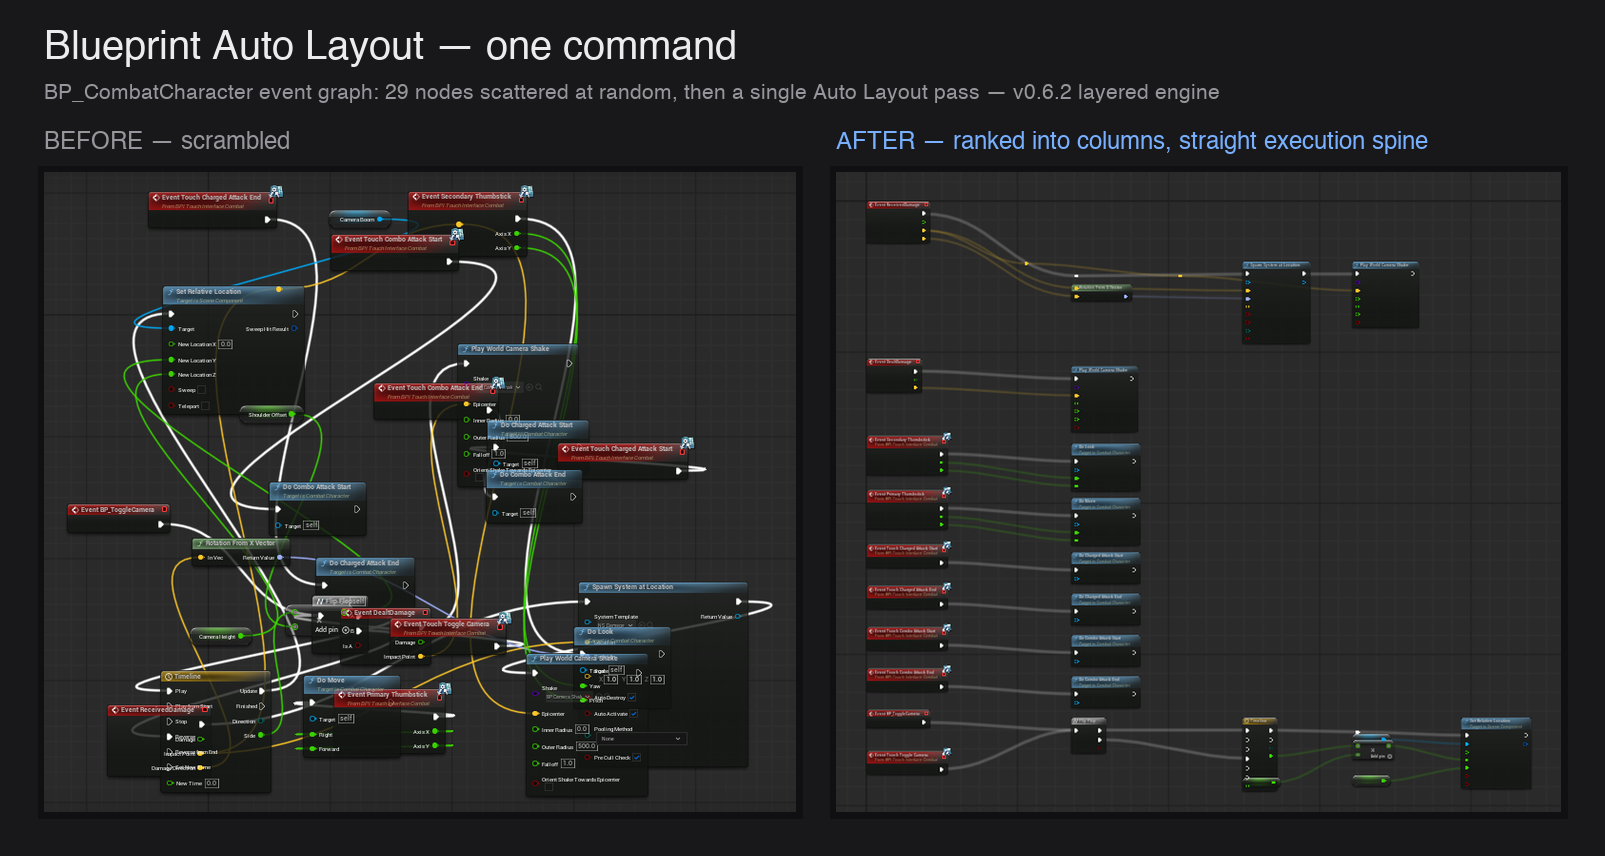
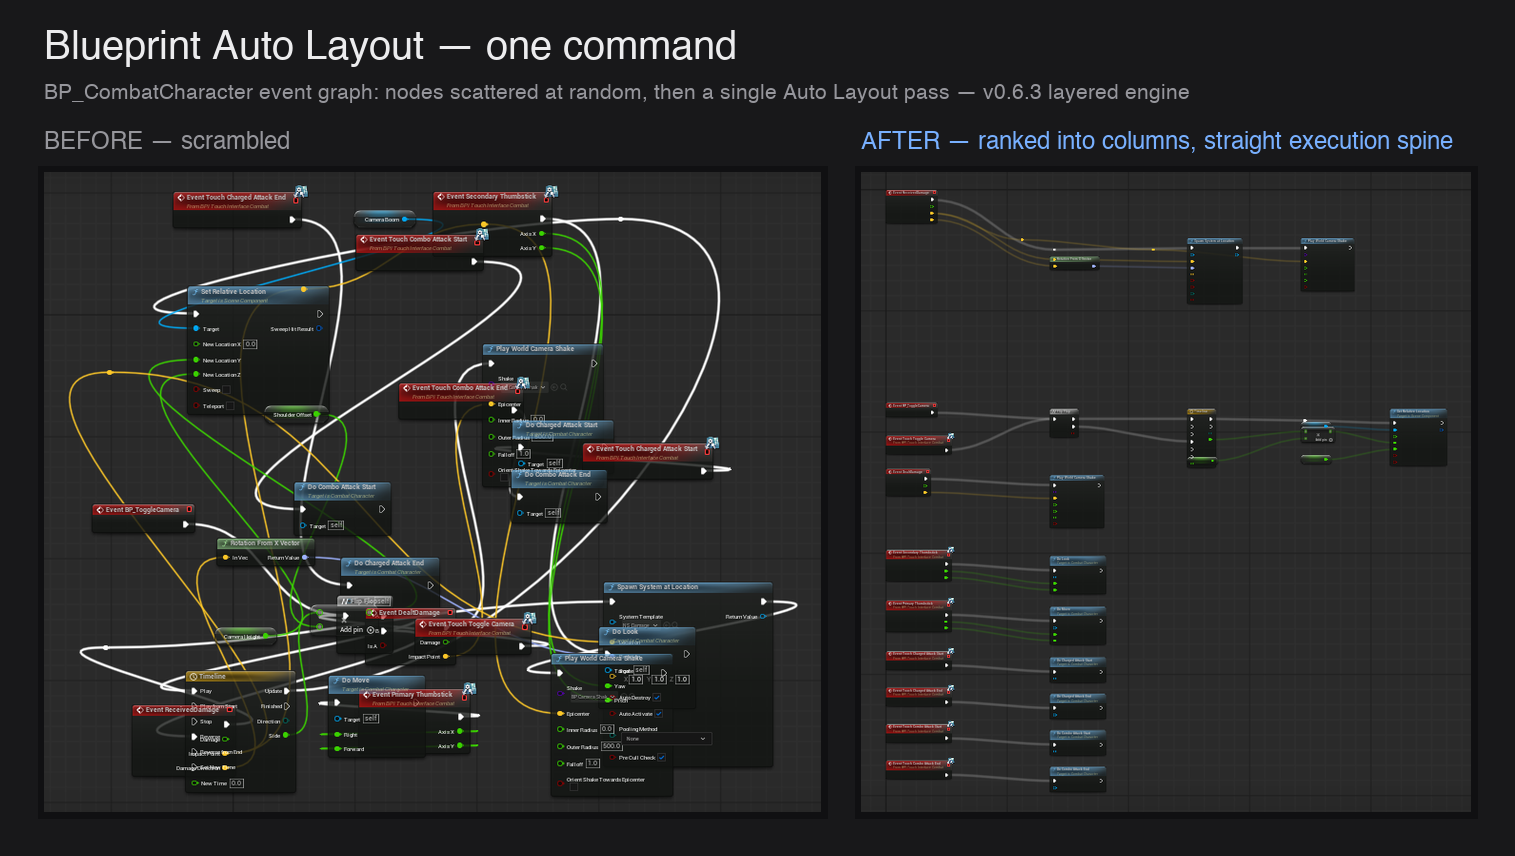
docs: v0.6.3 — refresh hero + before/after screenshots to current layered engine
No functional change. Regenerated Docs/cleanup.png (full scramble->clean hero) and
Docs/before-after.png (now shows straight execution spines with data providers
clustered to their consumer, replacing the v0.5.5-era 'straight wires' shot) from
the current v0.6.x output so the README/wiki imagery matches the engine. uplugin -> 0.6.3.

diff --git a/README.md b/README.md
@@ -6,7 +6,7 @@ Pin-aware auto-layout for Unreal Engine Blueprint graphs. Right-click on empty g
 
 *One command on a randomly-scattered graph: each event lands on its own row with straight wires.* The wire handling up close:
 
-![Before and after: straight wires by default, nodes moved out of the way](Docs/before-after.png)
+![Before and after: straight execution spines with data providers clustered to their consumer](Docs/before-after.png)
 
 **New in v0.6.0 — a real layered (Sugiyama) engine.** The layout is now computed by a proper layered-graph algorithm instead of a single-parent tree, so it handles the cases a tree can't model:
 
@@ -113,7 +113,9 @@ The legacy single-parent tree packer is retained as a fallback (toggle in Settin
 
 ## Status
 
-v0.6.2 — public, MIT licensed. Not yet on Fab.
+v0.6.3 — public, MIT licensed. Not yet on Fab.
+
+**v0.6.3 — refreshed documentation screenshots** to show the current layered-engine output (no functional change).
 
 **v0.6.2 — coordinate fix.** A node fed by a long data chain (e.g. `Set Relative Location`, driven by a `Timeline` and a `float × float`) used to land far above its trigger, with the execution wire sweeping up to reach it. The Y assignment now anchors the execution spine to each node's predecessor (so a sink sits on its trigger's lane, exec wire straight) and pulls single-consumer data providers — including chained ones — onto the consumer's pins, so a node and its variables cluster together instead of the variables floating high.
 
